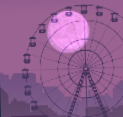
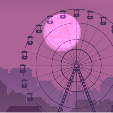
feat(maps): improve image quality (#23)

diff --git a/.changeset/large-ducks-remain.md b/.changeset/large-ducks-remain.md
@@ -1,0 +1,5 @@
+---
+"speedtracker": patch
+---
+
+Improve image quality of maps
